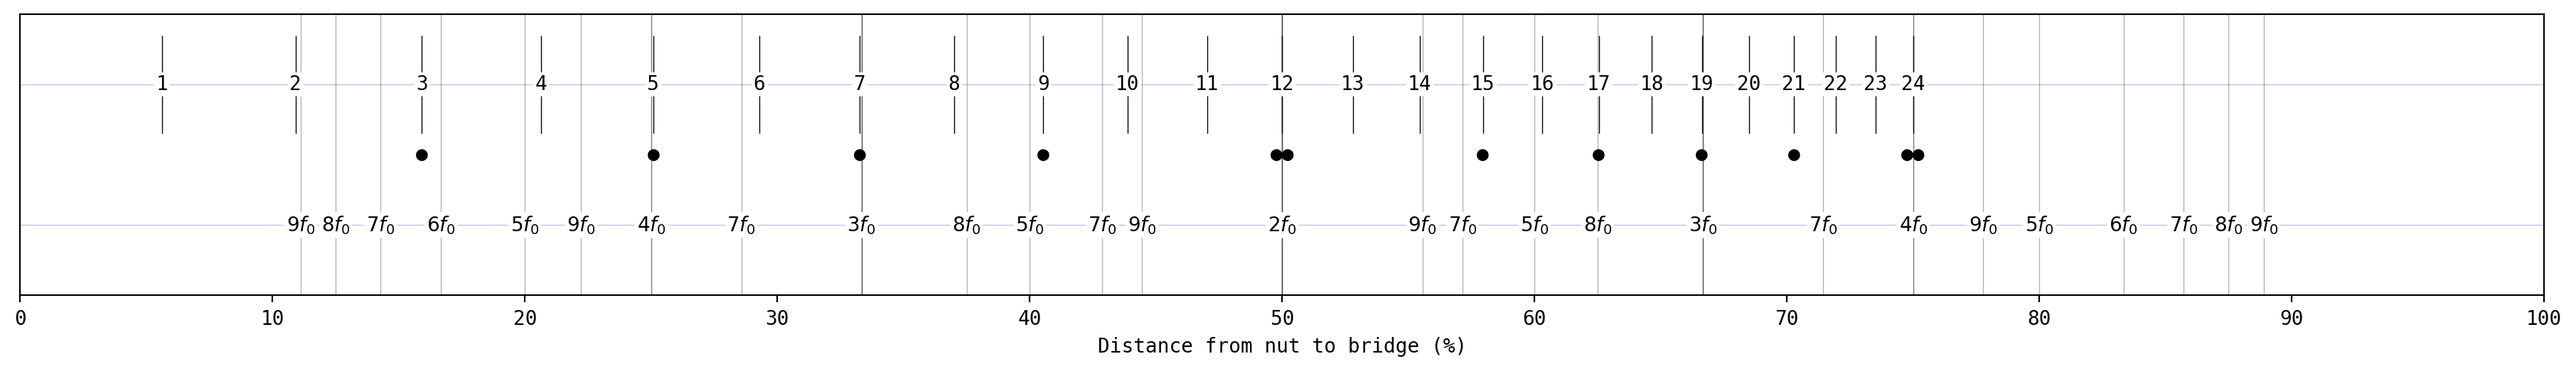
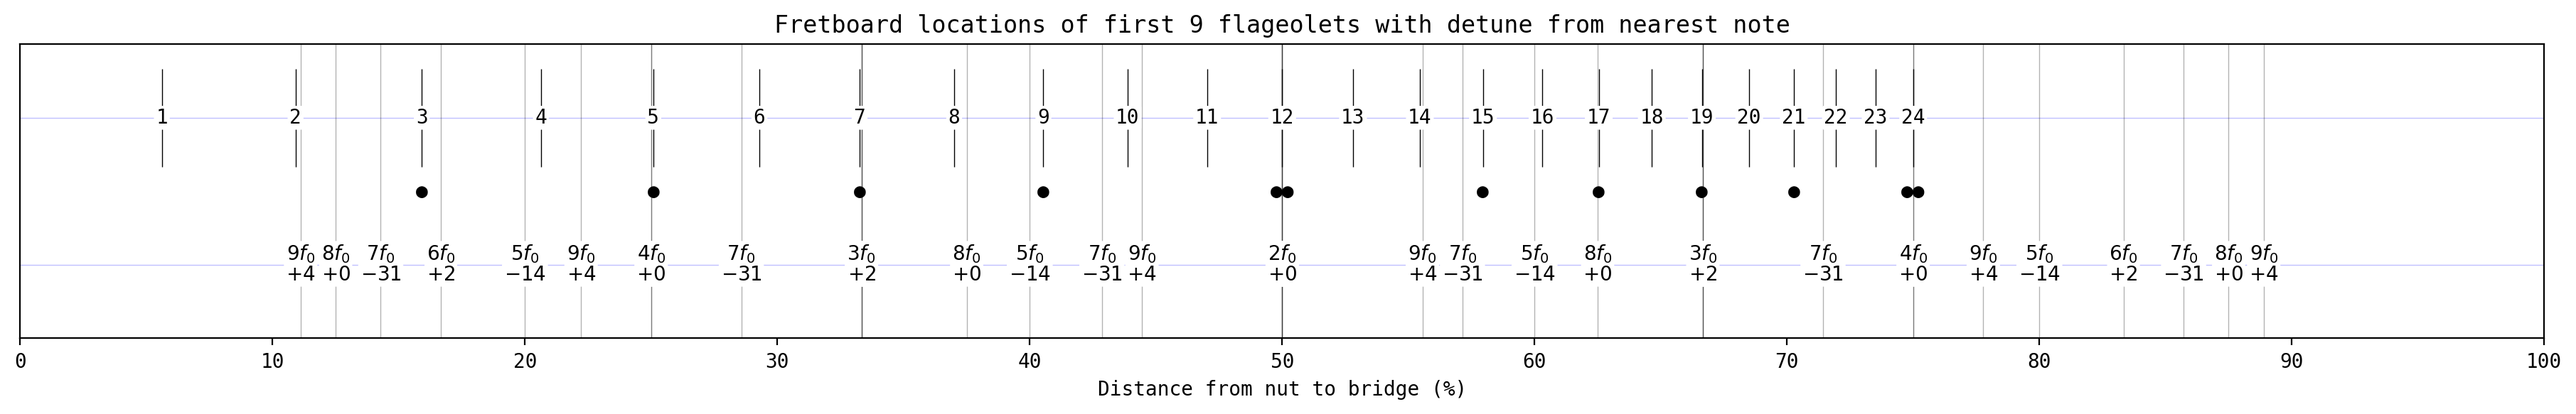
Add detune and figure title

diff --git a/main.py b/main.py
@@ -1,6 +1,7 @@
 import matplotlib.pyplot as plt
 import matplotlib.ticker as ticker
 import numpy as np
+import math
 
 # Distance from nut to bridge in %.
 scale_length = 100
@@ -13,7 +14,7 @@ def main():
   plt.rc('font', size=10)
   plt.rc('font', family="monospace")
 
-  _, ax = plt.subplots(figsize=(18, 2.5), layout="constrained")
+  _, ax = plt.subplots(figsize=(18, 2.8), layout="constrained")
 
   # Figure styling.
   ax.axhline(1, alpha=0.25, color="blue", linewidth=0.5)
@@ -28,10 +29,13 @@ def main():
   # Reverse harmonics as multiples are drawn on top of eachother.
   for harmonic in reversed(harmonics):
     for numerator in range(1, harmonic):
-      fraction = scale_length * numerator / harmonic
+      distance = scale_length * numerator / harmonic
+      semitones = freqRatioToSemitones(harmonic)
+      cents = round(100 * (semitones - round(semitones)))
 
-      ax.plot(fraction, 0, color="black", marker="|", ms=1000, alpha=0.3, markeredgewidth=0.5)
-      ax.text(fraction, 0, rf"${harmonic}f_0$", horizontalalignment="center", verticalalignment="center", bbox=bbox_style)
+      ax.plot(distance, 0, color="black", marker="|", ms=1000, alpha=0.3, markeredgewidth=0.5)
+      ax.text(distance, 0, rf"${harmonic}f_0$", horizontalalignment="center", verticalalignment="bottom", bbox=bbox_style)
+      ax.text(distance, 0, rf"${cents:+}$", horizontalalignment="center", verticalalignment="top", bbox=bbox_style)
 
   # Mark frets with a single dot.
   marked_frets = [3, 5, 7, 9, 15, 17, 19, 21]
@@ -51,8 +55,14 @@ def main():
     if fret in marked_octaves:
       ax.text(distance, 0.5, f"●●", horizontalalignment="center", verticalalignment="center")
 
+  plt.title("Fretboard locations of first 9 flageolets with detune from nearest note")
   plt.savefig("flageolets.png", bbox_inches="tight", dpi=200)
   plt.show()
+
+def freqRatioToSemitones(freqRatio):
+  cents = 12 * math.log(freqRatio, 2)
+
+  return cents
 
 if __name__ == "__main__":
   main()
